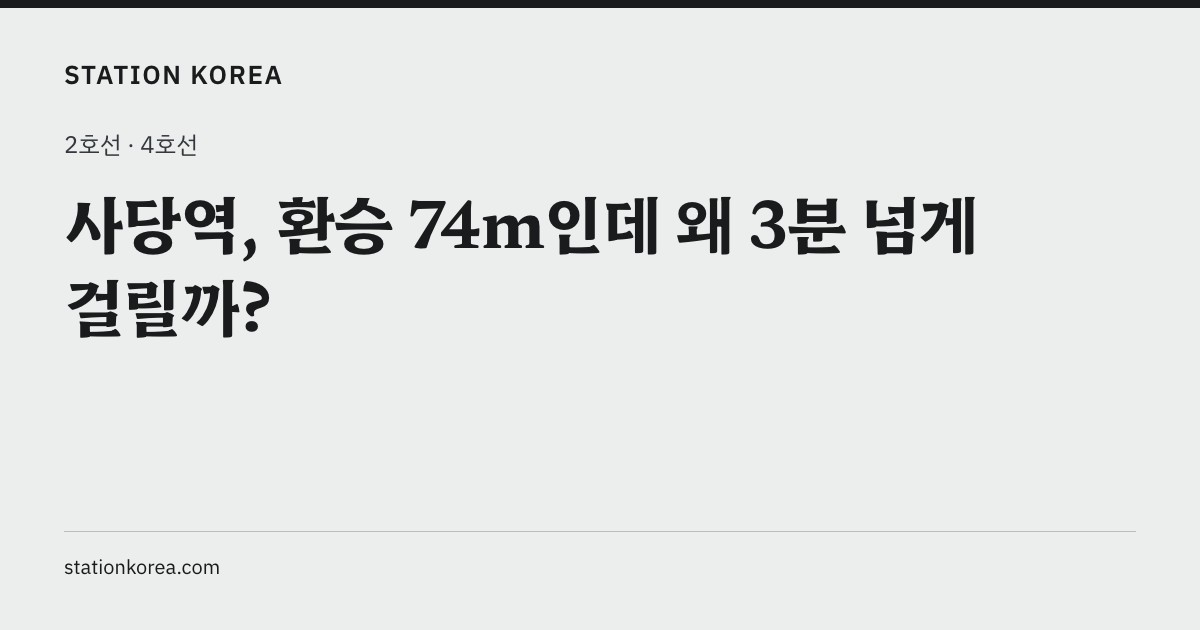
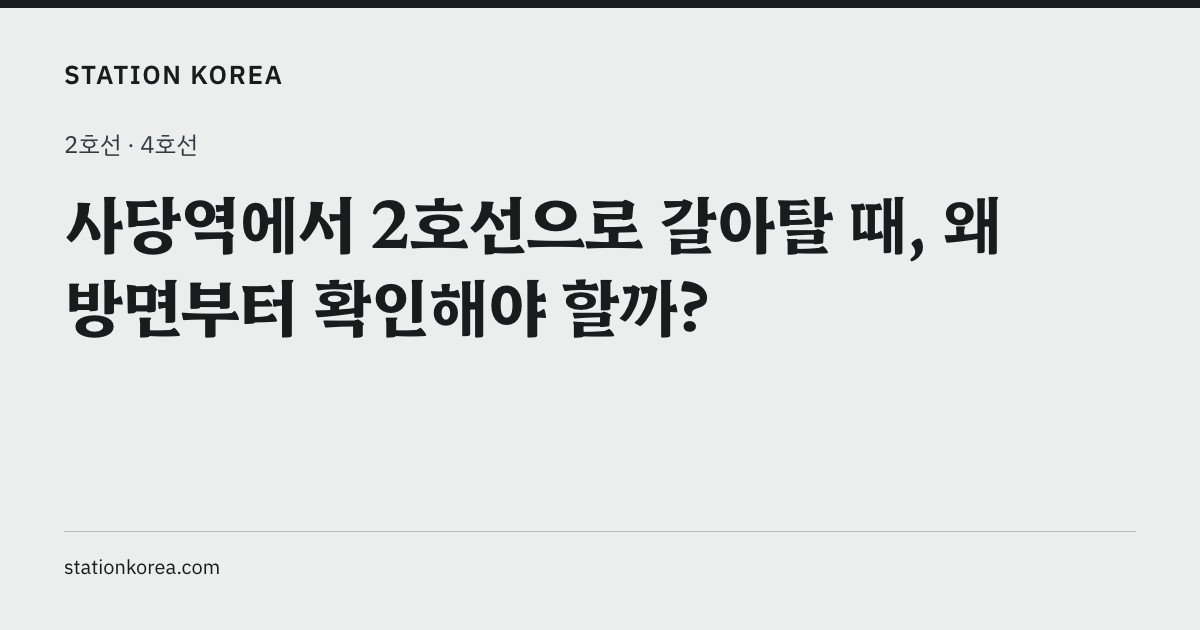
사당역 방면별 환승 구조를 해설하고 거리·시간 설명 정정

Changed region(s): [[0.0308, 0.3016, 0.8325, 0.5429]]

diff --git a/src/content/stations/sadang.ts b/src/content/stations/sadang.ts
@@ -7,34 +7,22 @@ export const sadang: Station = {
   name: "사당역",
   lines: ["2", "4"],
   section: "transfer",
-  cover: {
-    src: "/images/station/sadang-cover.jpg",
-    alt: "사당역 릴스 표지. 환승 74m인데 왜 3분 넘게?",
-    caption: "사당역 2·4호선 환승을 다룬 릴스 표지. AI 시각화 참고 이미지.",
-    width: 1080, height: 1920,
-  },
   sign: { line: "2", prev: "방배", next: "낙성대", en: "Sadang" },
-  question: "사당역, 환승 74m인데 왜 3분 넘게 걸릴까?",
-  seoTitle: "사당역 2호선↔4호선 환승 74m인데 3분 22초, 왜 돌아가게 할까",
-  answer:
-    "사당역 2호선과 4호선의 최단 환승거리는 74m(서울교통공사, 2026-08-31 기준)지만, 좁은 계단에 출퇴근 환승객이 엉키지 않도록 방배 방면 통로에 펜스를 쳐 돌아가게 하고 간이 통로는 출근 시간에 셔터를 내리기 때문에, 공사 안내 기준 환승 시간은 방배 방면 3분 22초입니다.",
-  teaser: "환승 74m인데 왜 3분 넘게 걸릴까?",
-  crossSection: {
-    src: "/images/station/sadang-section.jpg",
-    alt: "사당역 단면 그림. 위층 2호선 승강장과 아래층 4호선 승강장 사이를 잇는 계단에 74m, 3:22 표시가 붙어 있다.",
-    caption: "지하 2층 2호선(초록) 상대식 승강장과 지하 3층 4호선(하늘색) 섬식 승강장을 잇는 계단.",
-  },
+  question: "사당역에서 2호선으로 갈아탈 때, 왜 방면부터 확인해야 할까?",
+  seoTitle: "사당역 4호선에서 2호선 환승, 방배·낙성대 방면을 먼저 보는 이유",
+  answer: "사당역 지하 2층의 2호선 승강장은 방배·낙성대 방면으로 나뉘고, 지하 3층 4호선에서 갈아탈 때 서울교통공사가 안내하는 하차 위치도 갈아탈 방면에 따라 다르다(환승정보 2026년 9월 1일 기준).",
+  teaser: "같은 4호선에서 내려도 갈아탈 2호선 방면에 따라 안내 하차 위치가 다르다.",
   ogImage: "/images/station/sadang-og.jpg",
   stats: [
     {
       value: "74m",
-      label: "2호선↔4호선 최단 환승거리(보행 1분 2초)",
+      label: "2호선↔4호선 최단 환승거리(초당 1.2m 기준 계산 1분 2초)",
       asOf: "2026-08-31 기준",
       sourceIds: ["seoulmetro-distance"],
     },
     {
       value: "3분 22초",
-      label: "공사 안내 환승 시간, 2호선 방배 방면↔4호선(낙성대 방면은 1분 51초)",
+      label: "4호선 남태령 방면↔2호선 방배 방면 참고시간",
       asOf: "2026-09-01 기준",
       sourceIds: ["seoulmetro-transfer-info"],
     },
@@ -45,10 +33,7 @@ export const sadang: Station = {
       sourceIds: ["seoulmetro-transfer-count"],
     },
   ],
-  pin: {
-    text: "표의 소요 시간은 가장 가까운 칸에서 내려 막힘 없이 걸을 때 기준입니다. 혼잡 시간대에는 더 걸릴 수 있습니다. 반대쪽 끝 칸에서 내리면 최대 2분 47초를 더 걷습니다.",
-    sourceIds: ["seoulmetro-transfer-info"],
-  },
+  pin: {"text": "하차 위치는 서울교통공사가 안내하는 최단 환승경로 기준이다. 소요시간은 개인 걸음걸이와 속도에 따라 달라지는 참고값이다. 엘리베이터를 이용하는 환승 경로는 별도 확인이 필요하다.", "sourceIds": ["seoulmetro-transfer-info"]},
   transfers: [
     { ride: { line: "4", direction: "총신대입구 방면" }, to: { line: "2", direction: "방배 방면" }, car: "10-4", time: "3분 24초", sourceId: "seoulmetro-transfer-info" },
     { ride: { line: "4", direction: "남태령 방면" }, to: { line: "2", direction: "방배 방면" }, car: "1-1", time: "3분 22초", sourceId: "seoulmetro-transfer-info" },
@@ -57,121 +42,114 @@ export const sadang: Station = {
     { ride: { line: "2", direction: "방배 방면" }, to: { line: "4", direction: "총신대입구·남태령 방면" }, car: "6-3", time: "3분 22~24초", sourceId: "seoulmetro-transfer-info" },
     { ride: { line: "2", direction: "낙성대 방면" }, to: { line: "4", direction: "총신대입구·남태령 방면" }, car: "5-3", time: "1분 51~55초", sourceId: "seoulmetro-transfer-info" },
   ],
-  comparison: {
-    title: "사당역 2호선과 4호선 비교",
-    columns: ["2호선", "4호선"],
-    rows: [
-      { label: "사당역 개통", values: ["1983년 12월 17일", "1985년 10월 18일"], sourceIds: ["wiki-sadang"], note: "개통일은 위키백과 기준입니다." },
-      { label: "승강장 형태", values: ["상대식", "섬식"], sourceIds: ["wiki-sadang", "redaily-2021-11"], note: "승강장 형태는 위키백과·철도경제신문 기준입니다." },
-      {
-        label: "승강장 층",
-        values: ["지하 2층", "지하 3층"],
-        sourceIds: ["namu-sadang"],
-        note: "층수는 나무위키 단독 자료입니다.",
-      },
-    ],
-  },
   reel: {
+    notice: "기존 영상의 74m는 최단 환승거리이며, 3분 22초는 4호선 남태령 방면과 2호선 방배 방면 사이의 참고시간입니다. 두 값은 같은 경로와 조건인지 확인되지 않아 통제에 따른 지연으로 비교할 수 없습니다.",
     url: "https://www.instagram.com/reel/De_BAeuiU93/",
     thumbnail: "/images/station/sadang-reel.jpg",
     postedAt: "2026-10-27T13:38:00+09:00",
   },
-  qna: [
+  series: {"title": "역을 파헤치다", "description": "역의 연결 구조와 그 배경을 풀어, 같은 길을 다르게 움직이게 되는 이유를 설명합니다."},
+  body: [
     {
-      question: "사당역은 왜 눈앞의 계단을 막아 놓고 돌아가게 하나요?",
-      answer: [
-        "2호선 사당역은 1983년 12월 17일에 문을 열었고, 4호선은 1985년 10월 18일 사당까지 연장되며 종착역으로 들어와 환승역이 됐습니다. 1994년 과천선이 이어지며 4호선 사당역은 중간역이 됐습니다.",
-        "2호선은 지하 2층 상대식 승강장, 4호선은 지하 3층 섬식 승강장입니다. 2호선은 선로를 건널 수 없어 반대편으로 가려면 4호선 승강장을 지나야 하고, 환승통로는 대합실을 거치지 않고 승강장끼리 바로 이어집니다. 방배 방면 통로는 하나뿐이고 올라가는 에스컬레이터만 있습니다.",
-        "짧은 길은 폭이 좁아 출퇴근 때 환승객이 계단에서 엉킬 위험이 큽니다. 그래서 2호선 방배 방면 환승통로에는 긴 안전펜스를 쳐 한 바퀴 돌아 계단을 쓰게 했고, 4호선 승강장 가운데에서 2호선 낙성대 방면으로 바로 이어지는 좁은 간이 통로는 출퇴근 시간(아침은 9시까지)에 셔터를 내립니다. 돌아가는 길이 설계입니다.",
-      ],
-      sourceIds: ["redaily-2021-11", "wiki-sadang"],
+      "heading": "위층의 두 승강장, 아래층의 한 승강장",
+      "paragraphs": [
+        {
+          "text": "사당역 2호선과 4호선은 한 층 차이로 만난다. 서울교통공사 안내도에서 2호선 승강장은 지하 2층, 4호선 승강장은 지하 3층에 있다. 두 노선의 승강장 모양은 다르다. 2호선은 선로 양쪽에 방배 방면과 낙성대 방면 승강장이 따로 있는 상대식이고, 4호선은 두 선로 사이에 승강장 하나가 놓인 섬식이다.",
+          "sourceIds": [
+            "seoulmetro-map-2",
+            "seoulmetro-map-4"
+          ]
+        },
+        {
+          "text": "4호선에서 내리면 총신대입구 방면 열차와 남태령 방면 열차의 승객이 같은 승강장을 이용한다. 그러나 위층의 2호선으로 갈아탈 때는 목적지에 맞는 승강장으로 나뉜다. 공식 안내도에는 2호선 방배 방면으로 이어지는 연결이 4호선 승강장의 남태령 쪽 끝에, 낙성대 방면으로 이어지는 연결은 그와 다른 위치에 표시돼 있다. ‘2호선 갈아타는 곳’에서 방배·낙성대라는 방면까지 읽어야 하는 이유다.",
+          "sourceIds": [
+            "seoulmetro-map-2",
+            "seoulmetro-map-4"
+          ]
+        }
+      ]
     },
     {
-      question: "사당역은 얼마나 붐비나요?",
-      answer: [
-        "평일 환승 인원은 160,478명으로 서울교통공사 73개 환승역 가운데 6위입니다(2026년 6월 30일 기준).",
-        "2026년 10월 11~22일 12일간 하루 평균 138,019명(2호선 88,547명, 4호선 49,472명)이 교통카드로 타고 내렸습니다.",
-        "2026년 2분기 1~8호선 혼잡도는 2호선 사당→방배 구간이 144.6%로 가장 높았습니다.",
-      ],
-      sourceIds: ["seoulmetro-transfer-count", "seoul-open-ridership", "molit-congestion-2026"],
+      "heading": "같은 열차에서도 갈아탈 방면에 따라 하차 안내가 다르다",
+      "paragraphs": [
+        {
+          "text": "사당역에 도착하기 전에는 지금 탄 열차와 갈아탈 열차의 방면을 함께 확인한다. 서울교통공사의 2026년 9월 1일 기준 환승정보는 4호선 총신대입구 방면 열차에서 2호선 방배 방면으로 갈아탈 때는 10-4, 낙성대 방면으로 갈아탈 때는 4-2를 최단 환승경로의 하차 위치로 안내한다. 같은 열차를 타고 와도 갈아탈 2호선의 방면에 따라 안내 위치가 다르다.",
+          "sourceIds": [
+            "seoulmetro-transfer-info"
+          ]
+        },
+        {
+          "text": "반대편 선로를 달려오는 4호선 남태령 방면 열차는 하차 안내가 다르다. 방배 방면으로 갈 때는 1-1, 낙성대 방면으로 갈 때는 7-3이다. 먼저 지금 탄 4호선 열차의 방면을 찾고, 다음으로 갈아탈 2호선의 방면을 고르면 된다. ‘4호선에서 2호선으로’라는 노선 번호만으로는 안내 하차 위치를 하나로 정할 수 없다.",
+          "sourceIds": [
+            "seoulmetro-transfer-info"
+          ]
+        }
+      ]
     },
     {
-      question: "사당역은 앞으로 무엇이 바뀌나요?",
-      answer: [
-        "방배동 사당주차장 부지의 사당 복합환승센터는 2009년에 시작했으나 개발사 부도로 10년 가까이 멈췄고, 2018년 공공 주도로 바뀌었습니다.",
-        "2025년 7월 서울교통공사가 기본구상 용역에 들어갔으며, 지하 8층~지상 59층, 연면적 26만㎡ 규모로 2034년 완공을 목표로 합니다.",
-      ],
-      sourceIds: ["hankyung-2025-07"],
-    },
+      "heading": "74m는 모든 환승 경로의 길이가 아니다",
+      "paragraphs": [
+        {
+          "text": "사당역의 최단 환승거리는 74m다. 서울교통공사의 2026년 8월 31일 기준 거리 자료에 있는 값이며, 함께 적힌 1분 2초는 74m를 초당 1.2m의 보행속도로 나눈 계산값이다. 이 자료는 2호선과 4호선 사이의 최단거리를 제시하지만 방배·낙성대 방면이나 하차 문은 구분하지 않는다.",
+          "sourceIds": [
+            "seoulmetro-distance"
+          ]
+        },
+        {
+          "text": "2026년 9월 1일 기준 문 위치별 환승정보는 방면에 따라 다른 시간을 제시한다. 2호선 방배 방면과 4호선 사이에는 3분 22~24초, 낙성대 방면과 4호선 사이에는 1분 51~55초다. 이 가운데 3분 22초는 4호선 남태령 방면과 2호선 방배 방면 사이의 안내값이다. 이 값들은 개인 걸음걸이와 속도에 따라 달라지는 참고시간이다. 두 자료만으로는 74m와 3분 22초를 같은 길의 거리와 실제 소요시간으로 짝지어 통로 통제 때문에 생긴 지연으로 설명할 수 없다. 사당역에서 안내 하차 위치를 찾을 때는 방면별 환승표를 읽어야 한다.",
+          "sourceIds": [
+            "seoulmetro-transfer-info",
+            "seoulmetro-distance"
+          ]
+        }
+      ]
+    }
   ],
+  qna: [],
   sources: [
     {
-      id: "seoulmetro-distance",
-      org: "서울교통공사",
-      title: "환승역 거리·소요시간 정보",
-      date: "2026-08-31 기준",
-      url: "https://www.data.go.kr/data/15044419/fileData.do",
+      "id": "seoulmetro-distance",
+      "org": "서울교통공사",
+      "title": "환승역 거리·소요시간 정보",
+      "date": "2026-08-31 기준",
+      "url": "https://www.data.go.kr/data/15044419/fileData.do"
     },
     {
-      id: "seoulmetro-transfer-info",
-      org: "서울교통공사",
-      title: "서울 도시철도 환승정보(환승 경로 안내)",
-      date: "2026-09-01 기준",
-      url: "https://www.data.go.kr/data/15098252/fileData.do",
+      "id": "seoulmetro-transfer-info",
+      "org": "서울교통공사",
+      "title": "서울 도시철도 환승정보(환승 경로 안내)",
+      "date": "2026-09-01 기준",
+      "url": "https://www.data.go.kr/data/15098252/fileData.do"
     },
     {
-      id: "seoulmetro-transfer-count",
-      org: "서울교통공사",
-      title: "환승역 환승인원 정보",
-      date: "2026-06-30 기준",
-      url: "https://www.data.go.kr/data/15062858/fileData.do",
+      "id": "seoulmetro-transfer-count",
+      "org": "서울교통공사",
+      "title": "환승역 환승인원 정보",
+      "date": "2026-06-30 기준",
+      "url": "https://www.data.go.kr/data/15062858/fileData.do"
     },
     {
-      id: "seoul-open-ridership",
-      org: "서울 열린데이터광장",
-      title: "서울시 지하철 호선별 역별 승하차 인원 정보",
-      date: "2026-10-11~22 집계",
-      url: "https://data.seoul.go.kr/dataList/OA-12914/S/1/datasetView.do",
+      "id": "seoulmetro-map-2",
+      "org": "서울교통공사",
+      "title": "2호선 사당역 역 이용 및 비상대피 안내도",
+      "date": "개정일 미표기 · 2026-11-02 확인",
+      "url": "https://www.seoulmetro.co.kr/common/resources/cyber/fileView3.jsp?fileName=station_0226.jpg"
     },
     {
-      id: "molit-congestion-2026",
-      org: "국회 국토교통위원회(신성범 의원실) 국정감사 자료",
-      title: "수도권 도시철도 혼잡도 2026년 2분기(철도경제신문 보도)",
-      date: "2026-10",
-      url: "https://www.redaily.co.kr/news/articleView.html?idxno=15877",
-    },
-    {
-      id: "redaily-2021-11",
-      org: "철도경제신문",
-      title: "박준한 칼럼 「특정 시간대에만 개방하는 숨겨진 환승통로를 가진 사당역」",
-      date: "2021-11-03",
-      url: "https://www.redaily.co.kr/news/articleView.html?idxno=2427",
-    },
-    {
-      id: "wiki-sadang",
-      org: "위키백과",
-      title: "사당역",
-      date: "2026-10 열람",
-      url: "https://ko.wikipedia.org/wiki/%EC%82%AC%EB%8B%B9%EC%97%AD",
-    },
-    {
-      id: "hankyung-2025-07",
-      org: "한국경제",
-      title: "사당 복합환승센터 기본구상 보도",
-      date: "2025-07-17",
-      url: "https://www.hankyung.com/article/2025071752221",
-    },
-    {
-      id: "namu-sadang",
-      org: "나무위키",
-      title: "사당역(기존 기사 층수 인용, 원문 미확인)",
-      date: "2026-10-30 기존 기사 인용 기준",
-      url: "https://namu.wiki/w/%EC%82%AC%EB%8B%B9%EC%97%AD",
-    },
+      "id": "seoulmetro-map-4",
+      "org": "서울교통공사",
+      "title": "4호선 사당역 역 이용 안내도 및 비상대피로",
+      "date": "개정일 미표기 · 2026-11-02 확인",
+      "url": "https://www.seoulmetro.co.kr/common/resources/cyber/fileView3.jsp?fileName=station_0433.jpg"
+    }
   ],
   datePublished: "2026-10-29T09:00:00+09:00",
-  dateModified: "2026-11-01T14:03:09+09:00",
+  dateModified: "2026-11-02T21:21:45+09:00",
   corrections: [
+    {"date": "2026-11-02", "before": "74m인데 3분 22초인 것은 펜스·셔터로 돌아가게 하기 때문이라는 설명", "after": "74m는 최단거리이며 문 위치별 참고시간과 같은 조건의 값인지 확인되지 않아 통제에 따른 지연이라는 설명 삭제", "reason": "거리 자료의 계산값과 방면별 환승 참고시간을 같은 경로의 값으로 연결한 설명을 바로잡았다."},
+    {"date": "2026-11-02", "before": "보행 1분 2초, 막힘 없이 걸을 때 기준, 끝 칸에서 최대 2분 47초 추가", "after": "초당 1.2m 기준 계산 1분 2초, 걸음걸이·속도에 따라 달라지는 참고시간으로 구분하고 근거를 확인하지 못한 추가시간 삭제", "reason": "서울교통공사 자료의 정의에 맞게 계산값과 참고시간을 구분했다."},
+    {"date": "2026-11-02", "before": "현재형 펜스·셔터 통제와 출퇴근 시간 폐쇄 안내", "after": "현행 운영시간 안내 삭제", "reason": "근거로 사용한 자료는 2021년 칼럼과 사진이며 현재 운영 여부와 시간을 확인하지 못했다."},
+    {"date": "2026-11-02", "before": "지상 59층·2034년 완공 목표를 현재 계획으로 소개한 미래 Q&A", "after": "현재 확정 계획으로 제시한 안내 삭제", "reason": "2025년 보도의 계획을 현재 확정안처럼 제시한 표현을 바로잡았다. 2034년 목표가 공식 폐기됐다는 뜻은 아니다."},
     {
       date: "2026-10-30",
       before: "2호선 낙성대 방면은 4-2, 7-3",

diff --git a/src/app/rss.xml/route.ts b/src/app/rss.xml/route.ts
@@ -13,7 +13,7 @@ const escape = (s: string) =>
 function fullContent(s: Station): string {
   const n = (id: string) => s.sources.findIndex((x) => x.id === id) + 1;
   const refs = (ids: string[]) => ids.map((id) => `[${n(id)}]`).join("");
-  const illustration = `<figure><img src="${absoluteUrl(s.crossSection.src)}" alt="${escape(s.crossSection.alt)}"/><figcaption>${escape(s.crossSection.caption)}${s.crossSection.aiGenerated !== false ? " AI 시각화 참고 이미지." : ""}</figcaption></figure>`;
+  const illustration = s.crossSection ? `<figure><img src="${absoluteUrl(s.crossSection.src)}" alt="${escape(s.crossSection.alt)}"/><figcaption>${escape(s.crossSection.caption)}${s.crossSection.aiGenerated !== false ? " AI 시각화 참고 이미지." : ""}</figcaption></figure>` : "";
   return [
     ...(s.series ? [`<p>연재: ${escape(s.series.title)}</p><p>${escape(s.series.description)}</p>`] : []),
     `<p>${escape(s.answer)}</p>`,

diff --git a/src/components/article/reading/NextQuestion.tsx b/src/components/article/reading/NextQuestion.tsx
@@ -29,7 +29,7 @@ export function NextQuestion({ next, related }: NextQuestionProps) {
             {questions.map((station) => (
               <li key={station.slug}>
                 <Link href={stationPath(station)} className="pressable flex min-h-11 items-center gap-4 py-4">
-                  <Image src={station.crossSection.src} alt={station.crossSection.alt} width={88} height={88} loading="lazy" className="size-22 shrink-0 rounded-lg object-cover" />
+                  {station.crossSection && <Image src={station.crossSection.src} alt={station.crossSection.alt} width={88} height={88} loading="lazy" className="size-22 shrink-0 rounded-lg object-cover" />}
                   <span className="min-w-0">
                     <span className="block text-body break-words">{station.question}</span>
                     <LineChip lines={station.lines} label={station.name} className="mt-3" />

diff --git a/src/lib/markdown.ts b/src/lib/markdown.ts
@@ -26,7 +26,7 @@ export function stationMarkdown(s: Station): string {
     "",
     ...(s.body ?? []).flatMap((section) => [`## ${section.heading}`, "", ...section.paragraphs.flatMap((paragraph) => [`${paragraph.text} ${refs(paragraph.sourceIds)}`, ""])]),
     ...s.qna.flatMap((q) => [`## ${q.question}`, "", ...q.answer.map((p) => `${p}\n`), `출처: ${refs(q.sourceIds)}`, ""]),
-    ...(s.body ? [`![${s.crossSection.alt}](${absoluteUrl(s.crossSection.src)})`, "", s.crossSection.caption, ""] : []),
+    ...(s.body && s.crossSection ? [`![${s.crossSection.alt}](${absoluteUrl(s.crossSection.src)})`, "", s.crossSection.caption, ""] : []),
     "## 어디서 내리면 빠른가",
     "",
     `${s.pin.text} ${refs(s.pin.sourceIds)}`,

diff --git a/src/content/types.ts b/src/content/types.ts
@@ -134,8 +134,8 @@ export type Station = {
   answer: string;
   /** 다음 기사 카드에 쓰는 짧은 질문("그럼 사당은 왜?" 뒤에 붙는 문장). */
   teaser: string;
-  /** 3D 단면 이미지(4:5). v1의 `section` 필드가 섹션 구분으로 바뀌면서 이름을 옮겼다. */
-  crossSection: { src: string; alt: string; caption: string; aiGenerated?: boolean };
+  /** 선택적 본문 설명 이미지(4:5). 원고와 맞는 자산이 없으면 생략한다. */
+  crossSection?: { src: string; alt: string; caption: string; aiGenerated?: boolean };
   cover?: ReelCover;
   ogImage: string;
   stats: [Stat, Stat, Stat];

diff --git a/src/lib/article-index.ts b/src/lib/article-index.ts
@@ -30,7 +30,7 @@ export const articleEntries: ArticleEntry[] = [
     href: stationPath(s), title: s.question, answer: s.answer, section: s.section, series: s.series,
     published: s.datePublished, modified: s.dateModified, minutes: readingMinutes(s),
     place: s.name, lines: s.lines,
-    image: s.cover ? { ...s.cover, kind: "reel-cover" as const } : { ...s.crossSection, kind: "cross-section" as const },
+    image: s.cover ? { ...s.cover, kind: "reel-cover" as const } : s.crossSection ? { ...s.crossSection, kind: "cross-section" as const } : undefined,
   })),
 ].sort((a, b) => b.published.localeCompare(a.published));
 

diff --git a/src/lib/reading-time.ts b/src/lib/reading-time.ts
@@ -10,7 +10,7 @@ export function readingMinutes(station: Station): number {
     station.answer,
     ...(station.series ? [station.series.title, station.series.description] : []),
     ...(station.body ?? []).flatMap((section) => [section.heading, ...section.paragraphs.map((paragraph) => paragraph.text)]),
-    station.crossSection.caption,
+    station.crossSection?.caption ?? "",
     ...station.stats.flatMap((stat) => [stat.value, stat.label]),
     station.pin.text,
     ...station.transfers.flatMap((transfer) => [transfer.ride.direction, transfer.to.direction, transfer.car, transfer.time]),

diff --git a/src/app/station/[slug]/page.tsx b/src/app/station/[slug]/page.tsx
@@ -87,7 +87,7 @@ export default async function StationPage({ params }: Props) {
   const readingAnchors = contentAnchors.slice(bodyCount, -2);
   let paragraphIndex = 0;
 
-  const illustration = (
+  const illustration = s.crossSection && (
     <figure className="mt-6">
       <div className="relative aspect-4/5 overflow-hidden bg-slab">
         <Image src={s.crossSection.src} alt={s.crossSection.alt} fill priority={!s.body} fetchPriority={s.body ? "auto" : "high"} sizes="(min-width: 1280px) 690px, (min-width: 768px) calc(75vw - 53px), calc(100vw - 40px)" className="object-cover" />

diff --git a/src/content/articles/isu-guide-times.ts b/src/content/articles/isu-guide-times.ts
@@ -60,7 +60,7 @@ export const isuGuideTimes: MagazineArticle = {
   ],
   related: [
     { title: "고속터미널역의 15cm와 314m는 무엇을 잰 숫자일까?", href: "/article/express-terminal/" },
-    { title: "사당역, 환승 74m인데 왜 3분 넘게 걸릴까?", href: "/station/sadang/" },
+    { title: "사당역에서 2호선으로 갈아탈 때, 왜 방면부터 확인해야 할까?", href: "/station/sadang/" },
   ],
   datePublished: "2026-11-01T00:00:00+09:00",
   dateModified: "2026-11-01T16:16:28+09:00",

diff --git a/src/content/articles/guri-escalator.ts b/src/content/articles/guri-escalator.ts
@@ -52,7 +52,7 @@ export const guriEscalator: MagazineArticle = {
   ],
   related: [
     { title: "잠실역, 2호선에서 8호선까지 왜 이렇게 멀까?", href: "/station/jamsil/" },
-    { title: "사당역, 환승 74m인데 왜 3분 넘게 걸릴까?", href: "/station/sadang/" },
+    { title: "사당역에서 2호선으로 갈아탈 때, 왜 방면부터 확인해야 할까?", href: "/station/sadang/" },
   ],
   datePublished: "2026-11-01T00:00:00+09:00",
   dateModified: "2026-11-02T20:44:02+09:00",

diff --git a/src/lib/jsonld.ts b/src/lib/jsonld.ts
@@ -66,7 +66,7 @@ export function stationJsonLd(s: Station) {
       "@type": "Article",
       headline: s.question,
       description: s.answer,
-      image: [absoluteUrl(s.ogImage), absoluteUrl(s.crossSection.src)],
+      image: [absoluteUrl(s.ogImage), ...(s.crossSection ? [absoluteUrl(s.crossSection.src)] : [])],
       datePublished: s.datePublished,
       dateModified: s.dateModified,
       inLanguage: "ko-KR",

diff --git a/src/app/sitemap.ts b/src/app/sitemap.ts
@@ -22,7 +22,7 @@ export default function sitemap(): MetadataRoute.Sitemap {
       lastModified: s.dateModified,
       changeFrequency: "monthly" as const,
       priority: 0.8,
-      images: [absoluteUrl(s.crossSection.src)],
+      ...(s.crossSection ? { images: [absoluteUrl(s.crossSection.src)] } : {}),
     })),
     ...articles.map((article) => ({
       url: absoluteUrl(articlePath(article)),
